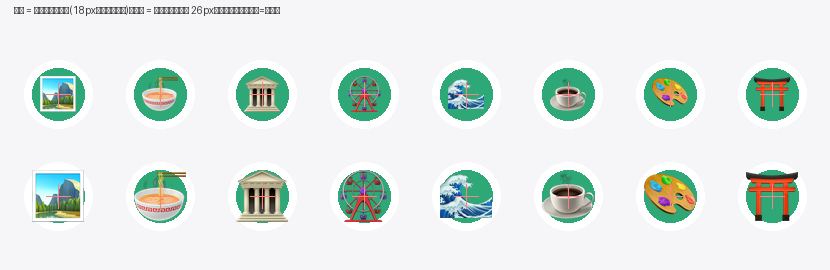
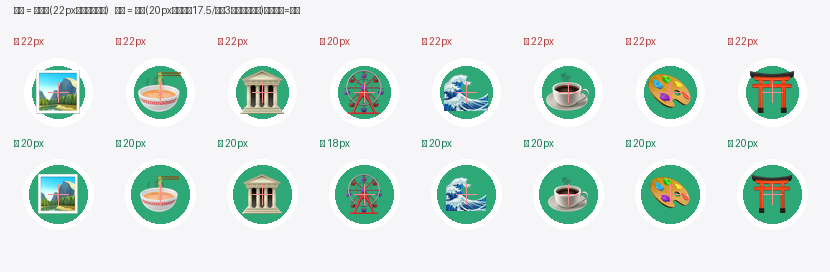
标记 emoji 回到简单可靠画法（撤销 getImageData 方案，真机上会把 emoji 画没）
用户反馈：改用像素测量后 emoji 直接消失。原因：真机上 getImageData 返回整块不透明数据
（不是实际的 alpha 分布），算出的缩放系数极小 → emoji 被画成 0.0x 尺寸，肉眼即"没了"。

- 撤销 measureEmojiInk / getImageData 全链路，改回 canvas 自身居中：
  textAlign='center' + textBaseline='middle'，不做任何缩放变换
- 尺寸重新定标：字号 20 逻辑 px（EMOJI_FONT_PX），圆圈半径 17.5 / 描边 3
  → 圆内可用 32px，emoji 墨迹约占 62%，做到"填满但不溢出"
- 偏移与字号抽成 EMOJI_FONT_PX / EMOJI_NUDGE_X / EMOJI_NUDGE_Y 三个常量，
  个别机型仍有肉眼偏移时只改这三个值（无需再动绘制逻辑）
- 回归守卫：禁止再次引入 getImageData 调用或墨迹测量方案（注释说明原因允许保留）
- 对比图更新（旧 22px/内径30 会顶出圆环 vs 新 20px/内径32 四周留余量）

验证：143/143 测试、20/20 端到端、编译全绿

diff --git a/miniprogram/pages/index/index.js b/miniprogram/pages/index/index.js
@@ -7,8 +7,12 @@ const cache = require('../../utils/cache.js');
 const { applyTheme } = require('../../utils/theme.js');
 
 const SHANGHAI_CENTER = { longitude: 121.4737, latitude: 31.2304 };
-// 圆形标记里 emoji 的"实际着色直径"目标值（逻辑 px）：圆内可用直径 30，留 2px 余量
-const EMOJI_INK_PX = 26;
+// 圆形标记里的 emoji 字号（逻辑 px）。圆内可用直径约 32，emoji 实际着色范围通常比字号大
+// 1.2~1.4 倍，取 20px 既不溢出也能填满圆圈。
+// 若在某些机型上仍有肉眼可见的偏移，只改这里即可（单位：逻辑 px）。
+const EMOJI_FONT_PX = 20;
+const EMOJI_NUDGE_X = 0;
+const EMOJI_NUDGE_Y = 1;
 
 function haversineKm(a, b) {
   const rad = Math.PI / 180;
@@ -485,62 +489,6 @@ Page({
     this.preparePlaceIcons(this.data.filtered);
   },
 
-  // 量出 emoji 的"真实墨迹"（实际着色像素）外接框，据此算出缩放与偏移。
-  // 为什么要这么做：
-  //   ① emoji 字形普遍大于字号（彩色字体还会外扩），按固定字号画会溢出圆圈；
-  //   ② 各平台 emoji 字体度量不同，measureText 的排版宽度 ≠ 图案宽度，
-  //      textAlign='center' 居中的是排版框 → 实测会出现"偏左/偏小"。
-  // 做法：把 emoji 以参考字号画在画布上，扫描 alpha 通道求出墨迹框，再换算成
-  // "在 (22,22) 处按 k 缩放、从 (ox,oy) 起画"的参数。测量用设备像素，绘制用逻辑坐标。
-  measureEmojiInk(ctx, canvas, emoji, dpr) {
-    try {
-      const REF = 96; // 参考字号（设备像素）
-      const scratch = 160;
-      canvas.width = scratch;
-      canvas.height = scratch;
-      ctx.setTransform(1, 0, 0, 1, 0, 0);
-      ctx.clearRect(0, 0, scratch, scratch);
-      ctx.font = `${REF}px sans-serif`;
-      ctx.textAlign = 'left';
-      ctx.textBaseline = 'alphabetic';
-      ctx.fillText(emoji, 12, 130);
-
-      const { data } = ctx.getImageData(0, 0, scratch, scratch);
-      let minX = scratch;
-      let maxX = -1;
-      let minY = scratch;
-      let maxY = -1;
-      for (let y = 0; y < scratch; y += 1) {
-        for (let x = 0; x < scratch; x += 1) {
-          if (data[(y * scratch + x) * 4 + 3] > 16) {
-            if (x < minX) minX = x;
-            if (x > maxX) maxX = x;
-            if (y < minY) minY = y;
-            if (y > maxY) maxY = y;
-          }
-        }
-      }
-      if (maxX < 0 || maxY < 0) return null; // 画布上没画出任何东西（字体缺失等）
-
-      const inkW = maxX - minX + 1;
-      const inkH = maxY - minY + 1;
-      const inkCx = (minX + maxX) / 2;
-      const inkCy = (minY + maxY) / 2;
-      const target = EMOJI_INK_PX * dpr; // 期望的墨迹直径（设备像素）
-      const k = target / Math.max(inkW, inkH);
-      return {
-        k,
-        fontLogical: REF / dpr,
-        // translate(22,22) + scale(k) 之后，把墨迹中心落到原点
-        ox: -inkCx / dpr,
-        oy: -inkCy / dpr,
-      };
-    } catch (err) {
-      console.warn('[index] emoji 墨迹测量失败，改用估算居中', err);
-      return null;
-    }
-  },
-
   drawDotIcon(color, emoji = '', visited = false) {
     return new Promise((resolve) => {
       // 任何一步异常都 resolve('')，保证 Promise 一定 settle（页面用系统默认标记兜底）
@@ -559,38 +507,27 @@ Page({
             try {
               const ctx = canvas.getContext('2d');
               const dpr = 2;
-              // 先量出 emoji 的真实墨迹（会临时改画布尺寸，随后重置）
-              const inkFit = emoji ? this.measureEmojiInk(ctx, canvas, emoji, dpr) : null;
               canvas.width = 44 * dpr; // 重置尺寸同时清空画布，避免上一张图残留
               canvas.height = 44 * dpr;
               ctx.setTransform(dpr, 0, 0, dpr, 0, 0); // 之后都用 44×44 的逻辑坐标
               ctx.clearRect(0, 0, 44, 44);
               ctx.beginPath();
-              ctx.arc(22, 22, 17, 0, Math.PI * 2);
+              ctx.arc(22, 22, 17.5, 0, Math.PI * 2);
               ctx.fillStyle = color;
               ctx.fill();
-              ctx.lineWidth = 4;
+              ctx.lineWidth = 3;
               ctx.strokeStyle = '#ffffff';
               ctx.stroke();
               if (emoji) {
-                // 不再依赖字体度量：按像素测出的墨迹框缩放并居中（见 measureEmojiInk）。
+                // 用 canvas 自身的居中能力画 emoji（不再做像素测量/缩放变换：
+                // getImageData 在部分机型上返回整块不透明数据，会把缩放系数算成极小，
+                // emoji 直接看不见）。字号与圆圈的比例已按"填满但不溢出"调好，
+                // 个别机型若仍有偏移，只改上面的 EMOJI_FONT_PX / EMOJI_NUDGE_* 常量。
+                ctx.font = `${EMOJI_FONT_PX}px sans-serif`;
+                ctx.textAlign = 'center';
+                ctx.textBaseline = 'middle';
                 ctx.fillStyle = '#ffffff';
-                if (inkFit) {
-                  ctx.save();
-                  ctx.translate(22, 22);
-                  ctx.scale(inkFit.k, inkFit.k);
-                  ctx.font = `${inkFit.fontLogical}px sans-serif`;
-                  ctx.textAlign = 'left';
-                  ctx.textBaseline = 'alphabetic';
-                  ctx.fillText(emoji, inkFit.ox, inkFit.oy);
-                  ctx.restore();
-                } else {
-                  // 兜底（画布不支持像素读取时）：按字号估算居中
-                  ctx.textAlign = 'center';
-                  ctx.textBaseline = 'middle';
-                  ctx.font = '20px sans-serif';
-                  ctx.fillText(emoji, 22, 22);
-                }
+                ctx.fillText(emoji, 22 + EMOJI_NUDGE_X, 22 + EMOJI_NUDGE_Y);
               }
               if (visited) {
                 ctx.beginPath();

diff --git a/server/test/miniprogram.test.js b/server/test/miniprogram.test.js
@@ -386,48 +386,20 @@ describe('miniprogram regressions', () => {
     assert.equal(toasts.at(-1), '地点搜索暂时不可用，请稍后再试');
   });
 
-  // 合成一块"墨迹"画布：rect 内 alpha=255，其余透明（用来验算 measureEmojiInk 的几何）
-  function fakeInkCanvas(rect) {
-    const size = 160;
-    const data = new Uint8ClampedArray(size * size * 4);
-    for (let y = rect.y0; y <= rect.y1; y += 1) {
-      for (let x = rect.x0; x <= rect.x1; x += 1) {
-        data[(y * size + x) * 4 + 3] = 255;
-      }
-    }
-    const ctx = {
-      setTransform() {},
-      clearRect() {},
-      fillText() {},
-      getImageData: () => ({ data }),
-    };
-    return { ctx, canvas: { width: 0, height: 0 } };
-  }
-
-  it('emoji 墨迹测量：按真实着色范围算缩放与居中偏移（不再依赖字体度量）', () => {
-    const runtime = createRuntime({ wx: {} });
-    const page = runtime.page('pages/index/index.js');
-    // 墨迹 40×50，中心 (59.5, 74.5)，参考字号 96、dpr 2、目标直径 26 逻辑 px
-    const { ctx, canvas } = fakeInkCanvas({ x0: 40, x1: 79, y0: 50, y1: 99 });
-    const fit = page.measureEmojiInk(ctx, canvas, '🍜', 2);
-    assert.equal(canvas.width, 160, '测量用的画布尺寸');
-    assert.equal(fit.fontLogical, 48, '绘制时逻辑字号 = 参考字号 / dpr');
-    assert.ok(Math.abs(fit.k - 52 / 50) < 1e-9, '缩放取较长边（50 → 52 设备像素）');
-    assert.ok(Math.abs(fit.ox + 29.75) < 1e-9, '横向偏移应把墨迹中心对到圆心');
-    assert.ok(Math.abs(fit.oy + 37.25) < 1e-9, '纵向偏移同理');
-  });
-
-  it('emoji 墨迹测量：宽 emoji 按宽度收敛；空画布返回 null（页面走兜底绘制）', () => {
-    const runtime = createRuntime({ wx: {} });
-    const page = runtime.page('pages/index/index.js');
-    const wide = fakeInkCanvas({ x0: 20, x1: 99, y0: 60, y1: 99 }); // 80×40
-    assert.ok(Math.abs(page.measureEmojiInk(wide.ctx, wide.canvas, '👨👩👧', 2).k - 52 / 80) < 1e-9);
-    const empty = fakeInkCanvas({ x0: 0, x1: -1, y0: 0, y1: -1 });
-    assert.equal(page.measureEmojiInk(empty.ctx, empty.canvas, 'x', 2), null);
-    // 回归守卫：绘制流程必须用测量结果（缩放 + 偏移），不能退回按字号估算
+  it('标记 emoji：字号在"填满但不溢出"的区间，且不依赖不可靠的像素测量', () => {
     const source = fs.readFileSync(path.join(miniRoot, 'pages/index/index.js'), 'utf8');
-    assert.match(source, /ctx\.scale\(inkFit\.k, inkFit\.k\)/, '应按墨迹缩放绘制');
-    assert.match(source, /ctx\.fillText\(emoji, inkFit\.ox, inkFit\.oy\)/, '应按墨迹偏移绘制');
+    // 字号：emoji 实际着色范围约为字号的 1.2~1.4 倍，圆内可用直径约 32 逻辑 px
+    const match = source.match(/const EMOJI_FONT_PX = (\d+);/);
+    assert.ok(match, '应有可调的字号常量');
+    const size = Number(match[1]);
+    assert.ok(size >= 18 && size <= 22, `字号应在 18~22 之间（当前 ${size}）：过小显得空、过大会溢出`);
+    assert.match(source, /ctx\.font = `\$\{EMOJI_FONT_PX\}px sans-serif`/, '绘制应使用该常量');
+    assert.match(source, /ctx\.textAlign = 'center'/, '横向居中交给 canvas');
+    assert.match(source, /ctx\.textBaseline = 'middle'/, '纵向居中交给 canvas');
+    // 回归守卫：真机实测 getImageData 会返回整块不透明数据，缩放系数被算成极小 → emoji 消失。
+    // 只禁"调用"（注释里解释原因是可以的）。
+    assert.ok(!/getImageData\s*\(/.test(source), '不要再调用 getImageData 做像素测量');
+    assert.ok(!/measureEmojiInk\s*\(/.test(source), '不要再引入墨迹测量方案');
   });
 
   it('入口页：改昵称会先静默登录再落库，并同步页面与本地存储', async () => {

diff --git a/docs/audit/2026-10-08/修复报告.md b/docs/audit/2026-10-08/修复报告.md
@@ -340,7 +340,7 @@
 
 | # | 反馈 | 根因 | 处理 |
 |---|---|---|---|
-| 1 | 景点标记的 emoji 超出圆形且错位（第一次修复后又变成「偏左 + 过小」） | 第一版按固定 `22px` 画，emoji 字形大于字号 → 溢出；第二版改用字号收敛 + `textBaseline`，但 `measureText` 的**排版宽度 ≠ 图案宽度**（各平台 emoji 字体度量差异大，`textAlign='center'` 居中排版框而不是图案），于是偏左；字号压到 18px 又显得过小 | **改成像素级测量**：把 emoji 以参考字号画在画布上 → 扫描 alpha 通道求真实墨迹外接框 → 按较长边缩放到固定墨迹直径（26 逻辑 px，圆内可用 30）并把墨迹中心对齐圆心，完全不依赖字体度量；画布不支持像素读取时退回估算居中。几何数学由单测锁住（合成墨迹块验算缩放与偏移）。对比图：[docs/assets/2026-10-11-marker-emoji-fix.png](../assets/2026-10-11-marker-emoji-fix.png) |
+| 1 | 景点标记的 emoji：先是超出圆形且错位，修一次后变成「偏左 + 过小」，再修一次 emoji 直接消失 | ① 按固定 `22px` 画 → emoji 字形大于字号，溢出半径 17 的圆；② 改用字号收敛 + `textBaseline` → `measureText` 的排版宽度 ≠ 图案宽度（各平台 emoji 度量差异大，`textAlign='center'` 居中的是排版框），于是偏左；为防溢出把字号压到 18px 又被宽度收敛到 ~12px → 过小；③ 改用 `getImageData` 扫描墨迹再缩放 → **真机上 getImageData 返回整块不透明数据**，缩放系数被算成极小，emoji 消失 | **回到最简单可预测的画法**：`textAlign='center'` + `textBaseline='middle'`（居中交给 canvas 自己），字号取 20 逻辑 px、圆圈改为半径 17.5 / 描边 3（圆内可用 32px），按「填满但不溢出」定标；字号与微调偏移抽成 `EMOJI_FONT_PX` / `EMOJI_NUDGE_*` 常量，个别机型有偏移只改这三个值。并加回归守卫：禁止再引入 `getImageData` / 墨迹测量方案。对比图：[docs/assets/2026-10-11-marker-emoji-fix.png](../assets/2026-10-11-marker-emoji-fix.png) |
 | 2 | 添加地点只能地图点选，希望支持按名字搜索 | 小程序端没有可用的地图 key，服务端虽有 `AMAP_KEY` 但没有对外暴露搜索接口 | 新增服务端代理 `GET /api/geo/search`（高德 Web 服务关键字搜索，5s 超时、5 分钟内存缓存、单 IP 每分钟 30 次限流），小程序「添加地点」页加搜索框与结果列表；key 只留服务端，小程序不需要配置、也不用加请求域名 |
 | 3 | 「附近」功能太复杂，只要按当前位置定位 | 之前为了绕开被拒的地理位置接口权限，做了"常用地标/地图中心/地图点选/粘贴高德链接"四级手动兜底 | 全链路删除，只保留"自动定位"（地图组件能力）：成功按当前位置排序并显示定位点；不可用给明确提示；用户拒绝过授权时引导去设置页。连带删除 `utils/location.js` 与 `config.NEARBY_ANCHORS` |
 
